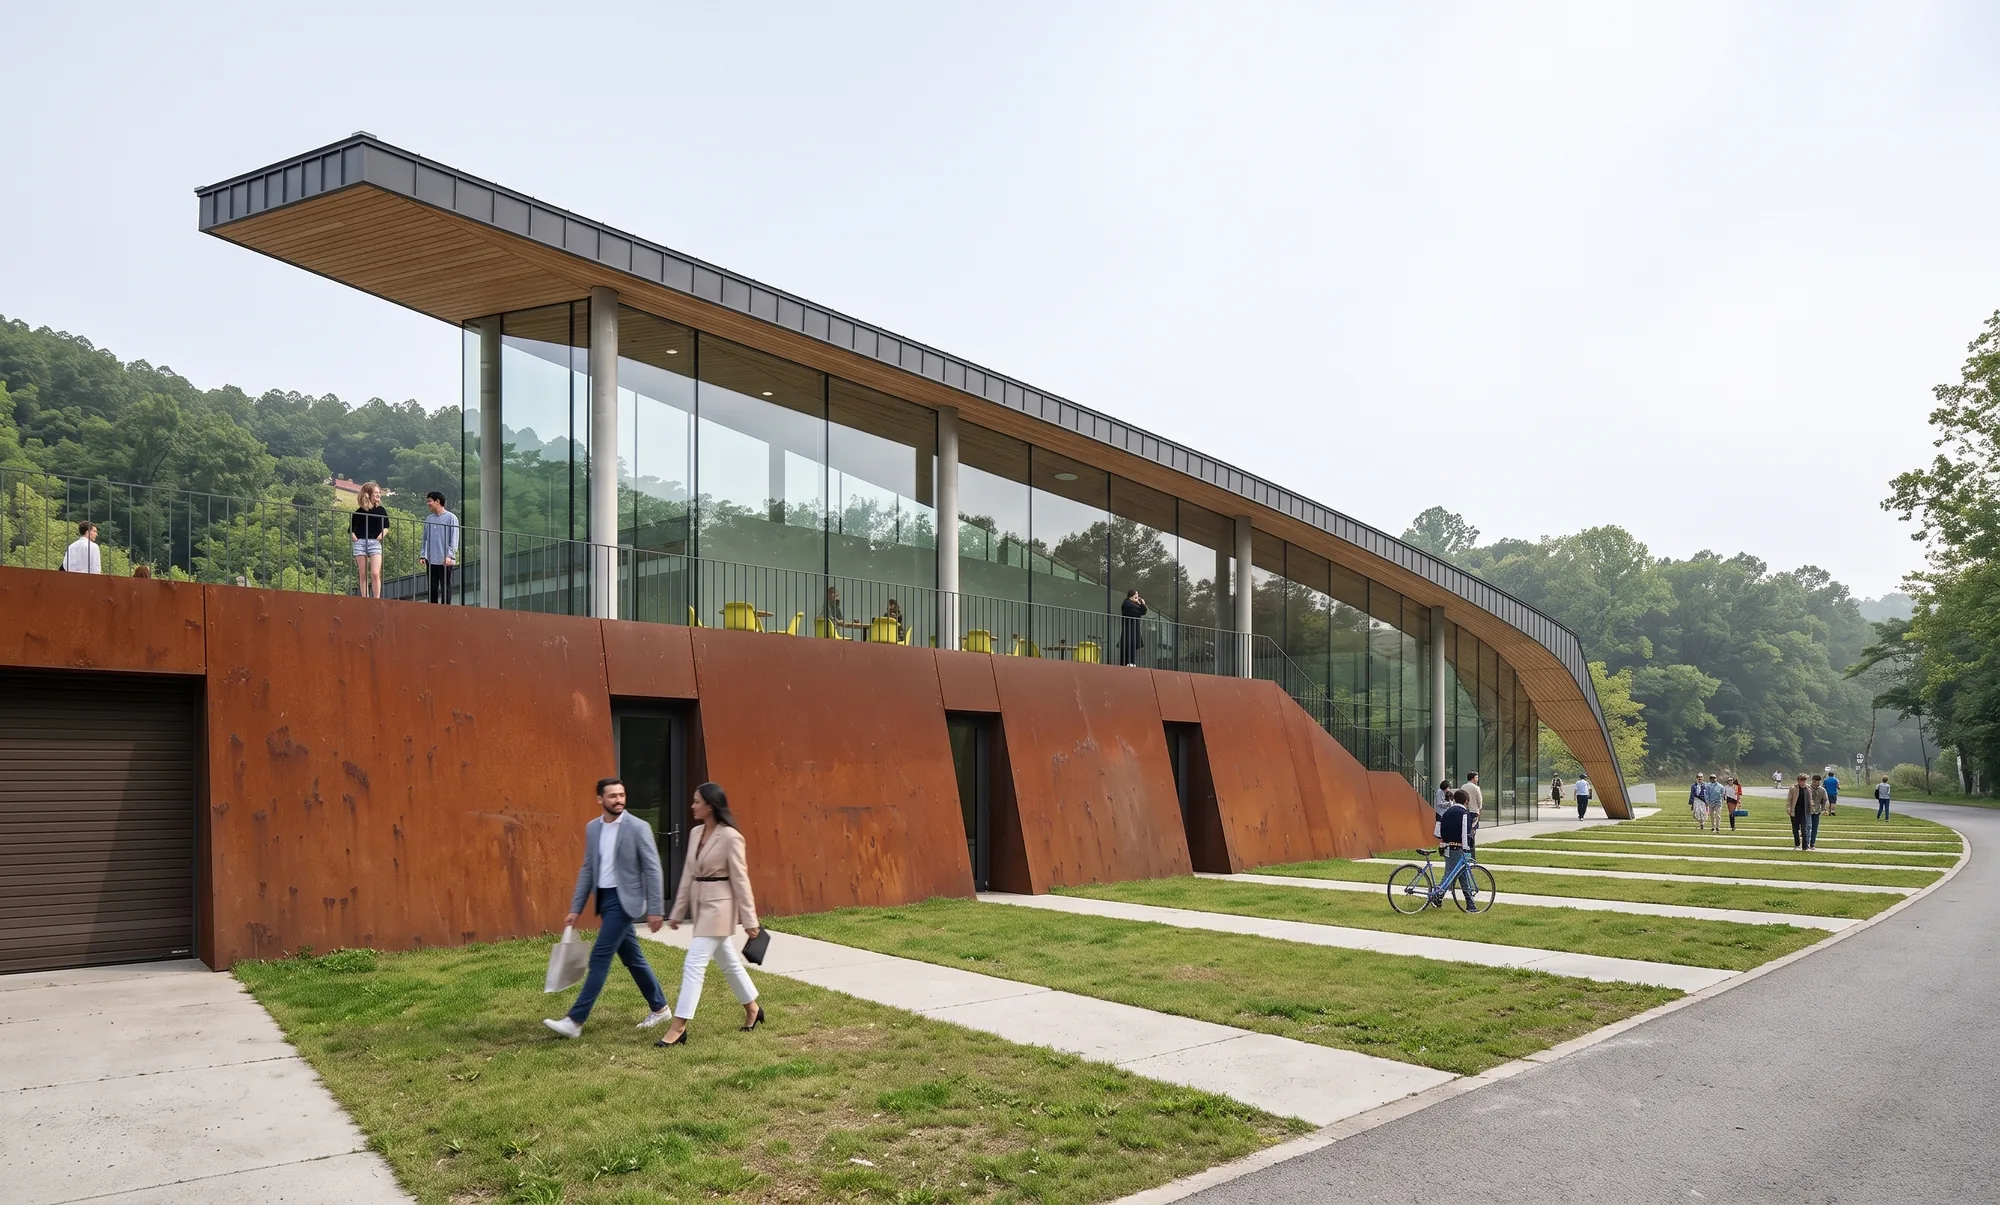
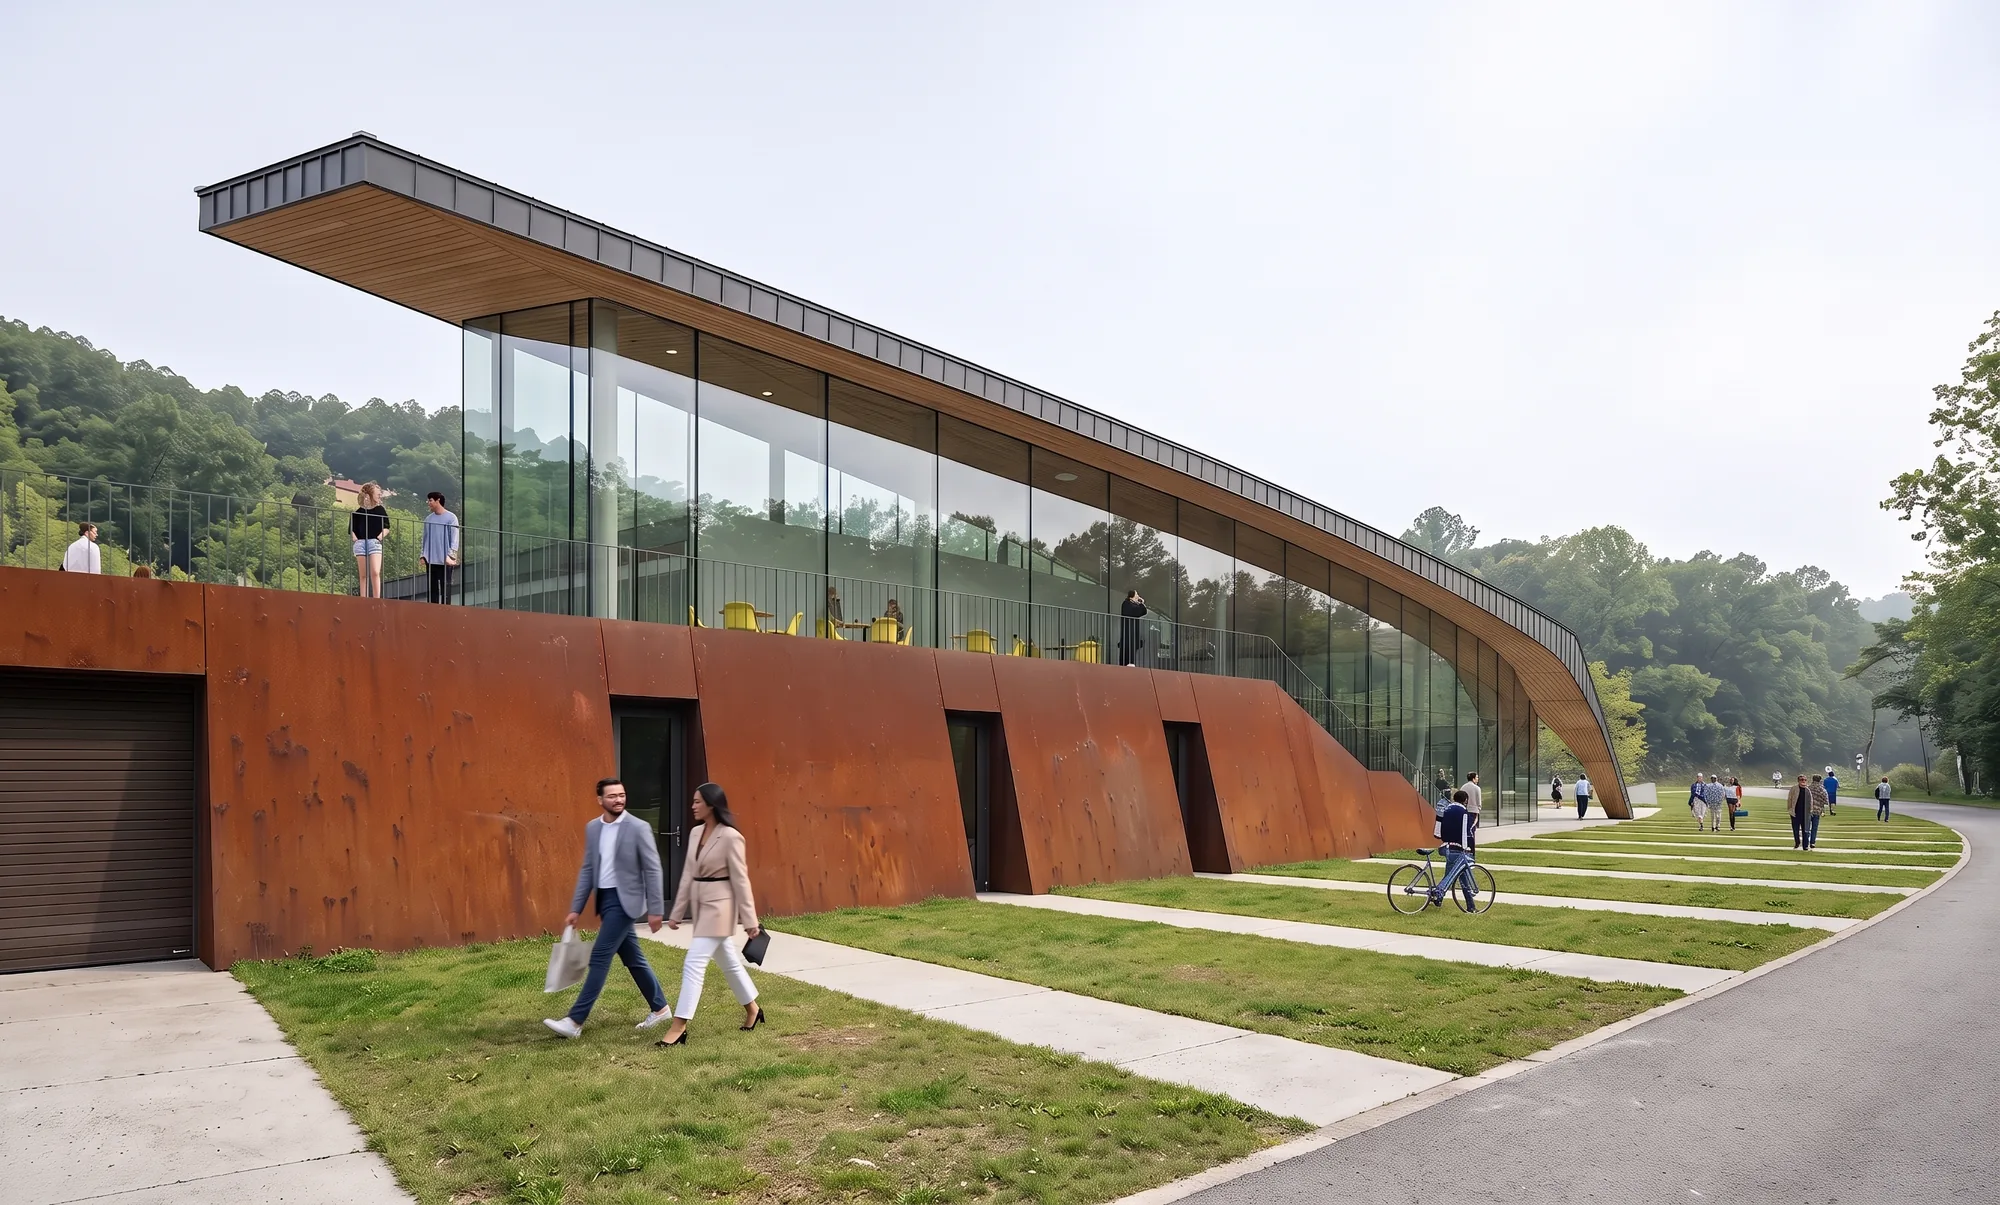
Haeundae 3: use the corrected-column version
Replace images/18/3.webp with the user's corrected image (watermark removed)
and bump its ?v= so browsers fetch the new file.

Claude-Session: https://claude.ai/code/session_01RUpUrq2wZFvhdtafc6aDPx

diff --git a/data.js b/data.js
@@ -21,7 +21,7 @@ const projectData = {
         "images": [
             "images/18/1.webp?v=20261021",
             "images/18/2.webp?v=20261021",
-            "images/18/3.webp?v=20261021",
+            "images/18/3.webp?v=20261021c",
             "images/18/4.webp?v=20261021",
             "images/18/5.webp?v=20261021",
             "images/18/6.webp?v=20261021",
